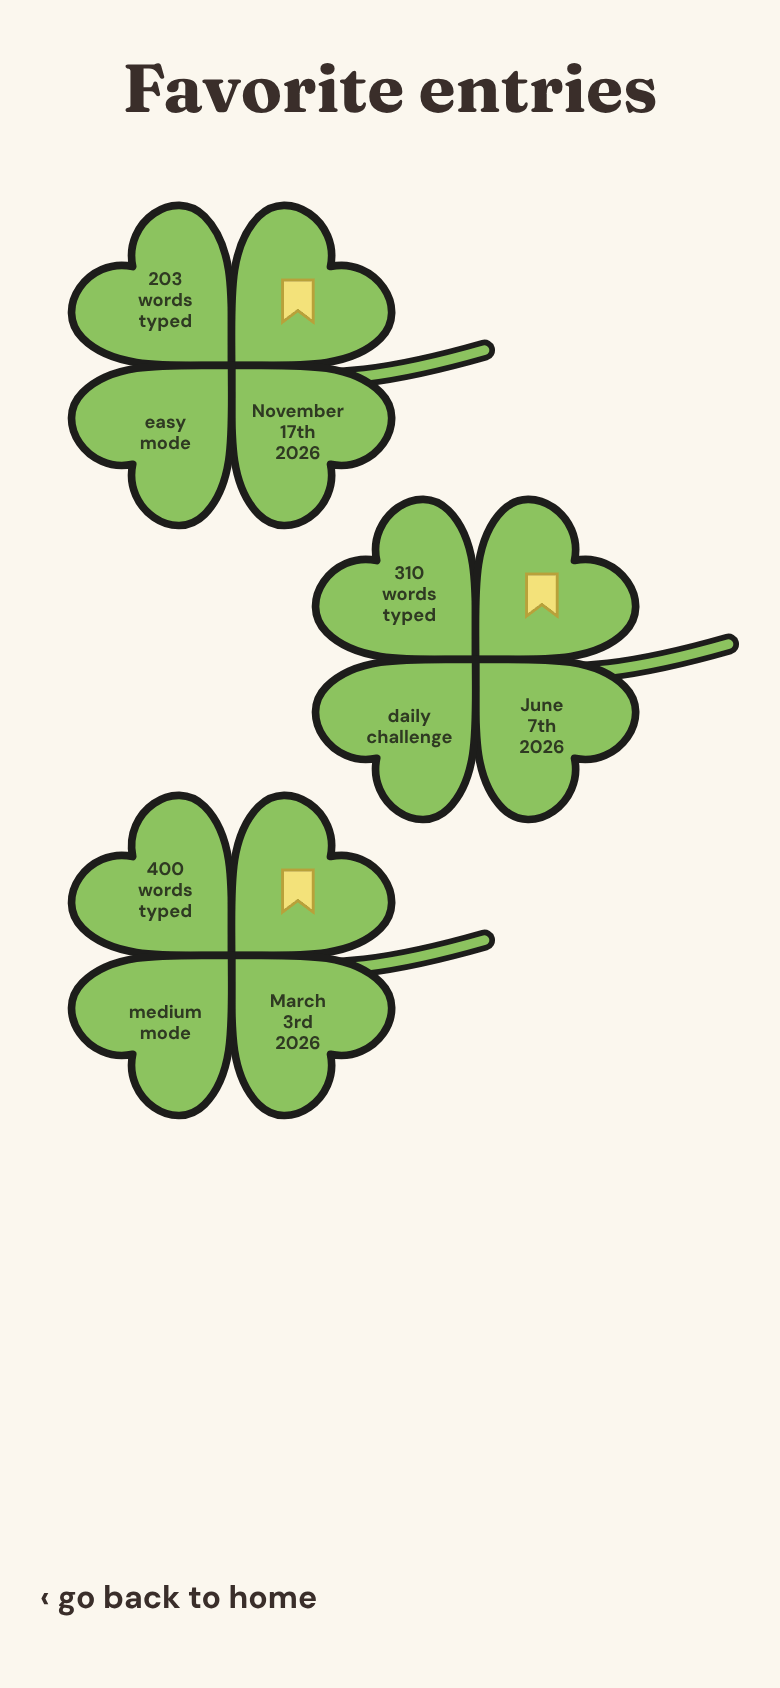
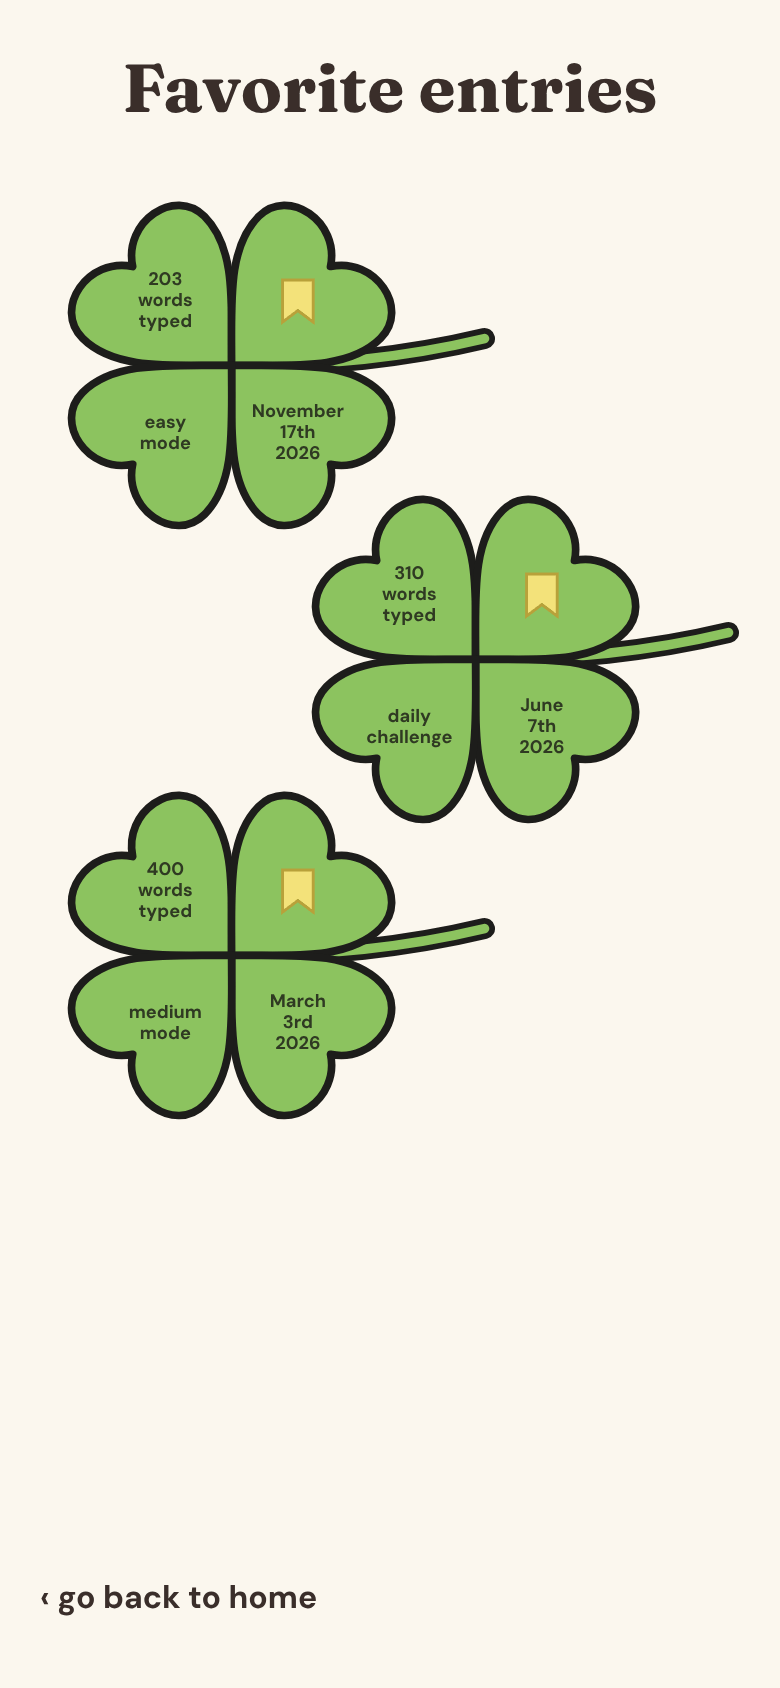
Move the clover stem up so it comes out between the leaves

Changed region(s): [[0.4308, 0.5237, 0.6462, 0.5853], [0.4615, 0.1848, 0.6462, 0.2464], [0.7385, 0.3697, 0.9538, 0.4005]]

diff --git a/app/app.js b/app/app.js
@@ -477,7 +477,7 @@
     const bookmark = '<g class="unfav" data-unfav="' + i + '" role="button" aria-label="Remove from favorites" transform="translate(' + (bx - 8).toFixed(1) + ' ' + (by - 10).toFixed(1) + ')">' +
       '<path d="M0 0 H16 V22 L8 16 L0 22 Z"/></g>';
     return '<div class="clover"><svg viewBox="0 -2 238 204" aria-label="Favorite entry from ' + escapeHtml(longDate(e.date).join(' ')) + '">' +
-      '<path class="stem" d="M104 104 C 150 112 190 104 232 92"/><path class="stem-in" d="M104 104 C 150 112 190 104 232 92"/>' + leaves +
+      '<path class="stem" d="M100 100 C 150 100 190 96 232 86"/><path class="stem-in" d="M100 100 C 150 100 190 96 232 86"/>' + leaves +
       leafText(-45, [String(e.wordCount || 0), 'words', 'typed']) + bookmark +
       leafText(225, (MODE_NAMES[e.level] || e.level).split(' ')) + leafText(135, longDate(e.date)) + '</svg></div>';
   }

diff --git a/app/sw.js b/app/sw.js
@@ -1,6 +1,6 @@
 // Lets the app open even without internet, after the first visit.
 // When you change any app file, bump the version number so phones get the update.
-const CACHE = 'wpa-v21';
+const CACHE = 'wpa-v22';
 const FILES = ['./', 'index.html', 'styles.css', 'data.js', 'app.js', 'cloud.js', 'manifest.webmanifest',
   'icons/icon-192.png', 'icons/icon-512.png', 'icons/apple-touch-icon.png'];
 
